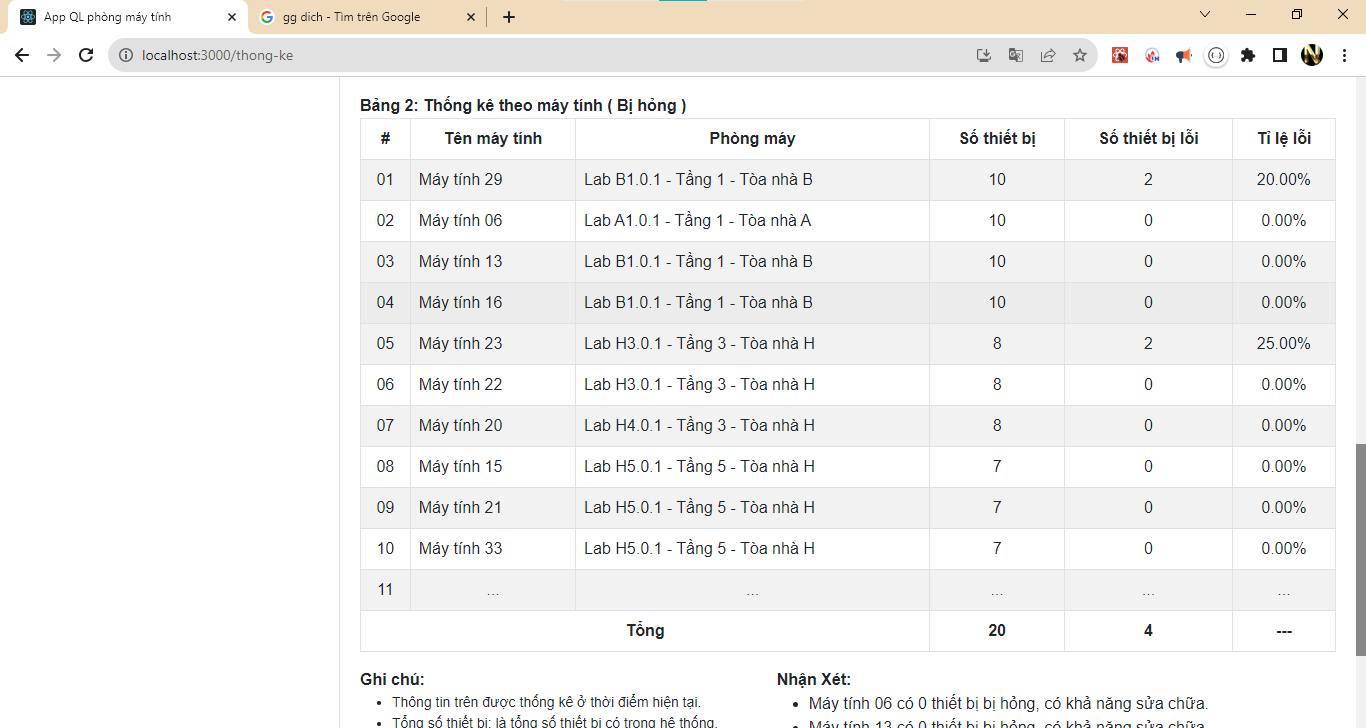
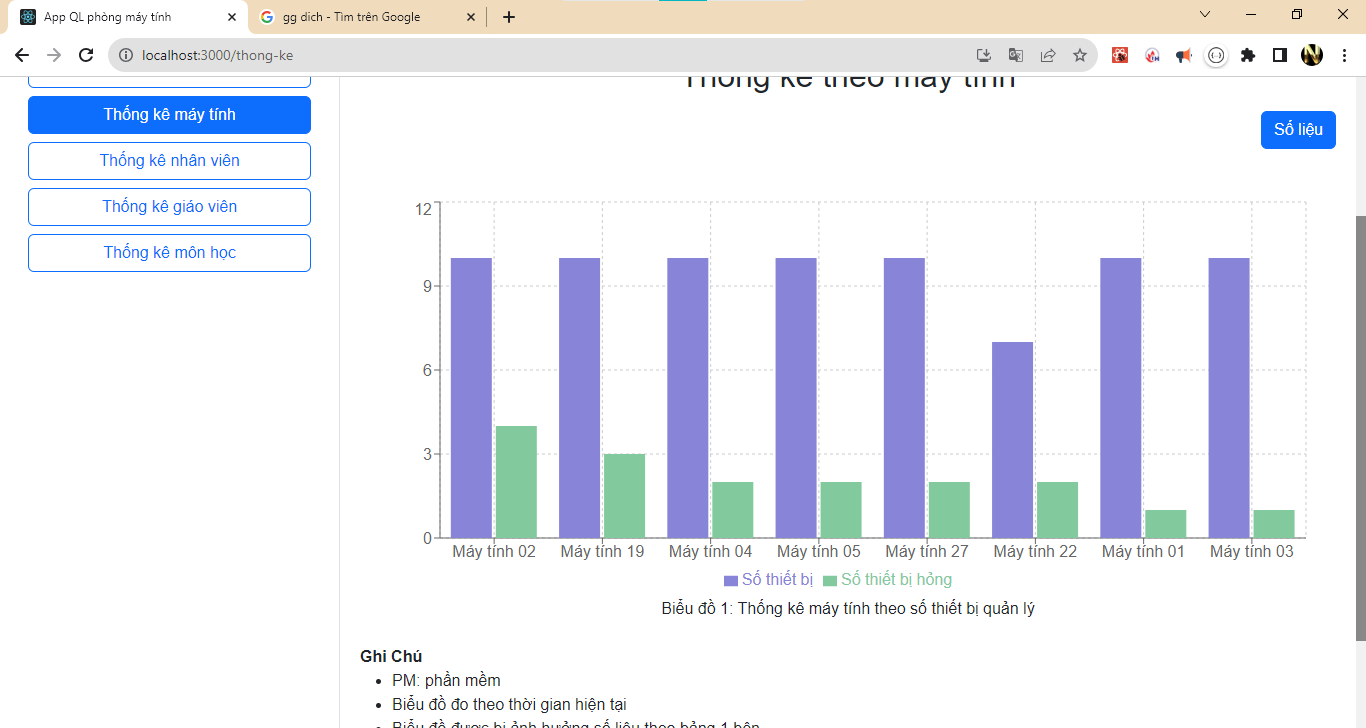
tk may tính: add Graph 1

diff --git a/src/components/layout/ThongKe/ThongKeMayTinh/ComponentGraphMayTinh.jsx b/src/components/layout/ThongKe/ThongKeMayTinh/ComponentGraphMayTinh.jsx
@@ -1,10 +1,94 @@
-import React from 'react'
+import React, { PureComponent } from "react";
+import {
+  BarChart,
+  Bar,
+  Rectangle,
+  XAxis,
+  YAxis,
+  CartesianGrid,
+  Tooltip,
+  Legend,
+  ResponsiveContainer,
+} from "recharts";
+import { useSelector } from "react-redux";
 
 export default function ComponentGraphMayTinh() {
-  return (
-    <div>
-      ComponentGraphMayTinh
-    </div>
-  )
-}
+  //
+  const {
+    arrDataTK_MayTinh,
+    arrDataTK_MayTinhSearch,
+    arrDataTK_MayTinhSearch_err,
+  } = useSelector((state) => state.thongkeMayTinhReducer);
+  // render
+  if (arrDataTK_MayTinh.length === 0) {
+    return <>Đang tìm số liệu.</>;
+  }
 
+  //
+  const renderTK_MayTinh1 = () => {
+    if(arrDataTK_MayTinhSearch.length === 0) {
+      return <>Bảng 1: không có thông tin</>
+    }
+    //
+    let rowItem = 0;
+    let arrGraph = [];
+    arrDataTK_MayTinhSearch.forEach((item) => {
+      rowItem++;
+      if (rowItem >= 9) return;
+      let { moTa, phongMay, soThietBi, soTbi_err } = item;
+      arrGraph.push({ name:moTa, namey:'Số lượng', "Số thiết bị": soThietBi, "Số thiết bị hỏng": soTbi_err });
+    });
+    return (
+      <ResponsiveContainer className="col-md-8 mt-5" height={400}>
+        <BarChart
+          width={500}
+          height={300}
+          data={arrGraph}
+          margin={{
+            top: 5,
+            right: 30,
+            left: 20,
+            bottom: 5,
+          }}
+        >
+          <CartesianGrid strokeDasharray="3 3" />
+          <XAxis dataKey="name" />
+          <YAxis  />
+          <Tooltip />
+          <Legend />
+          <Bar
+            dataKey="Số thiết bị"
+            fill="#8884d8"
+            activeBar={<Rectangle fill="pink" stroke="blue" />}
+          />
+          <Bar
+            dataKey="Số thiết bị hỏng"
+            fill="#82ca9d"
+            activeBar={<Rectangle fill="gold" stroke="purple" />}
+          />
+        </BarChart>
+        <p className="text-center w-100">
+          Biểu đồ 1: Thống kê máy tính theo số thiết bị quản lý
+        </p>
+      </ResponsiveContainer>
+    );
+  }
+
+
+  //
+  return <div className="mb-5">
+    {/*  */}
+    <>{renderTK_MayTinh1()}</>
+    <div className="col-5 mt-5">
+        <strong>Ghi Chú</strong>
+        <ul>
+          <li>PM: phần mềm</li>
+          <li>Biểu đồ đo theo thời gian hiện tại</li>
+          <li>
+            Biểu đồ được bị ảnh hưởng số liệu theo bảng 1 bên số liệu ( thống kê
+            theo máy tính )
+          </li>
+        </ul>
+      </div>
+  </div>;
+}

diff --git a/src/components/layout/ThongKe/ThongKeMayTinh/ComponentTableMayTinh.jsx b/src/components/layout/ThongKe/ThongKeMayTinh/ComponentTableMayTinh.jsx
@@ -15,6 +15,9 @@ export default function ComponentTableMayTinh() {
     arrDataTK_MayTinhSearch,
     arrDataTK_MayTinhSearch_err,
   } = useSelector((state) => state.thongkeMayTinhReducer);
+  if (arrDataTK_MayTinh.length === 0) {
+    return <>Đang tìm số liệu.</>;
+  }
   // render
 
   let sumThieBi_err = 0;
@@ -26,6 +29,11 @@ export default function ComponentTableMayTinh() {
   let arrNhanXet_Tbi_Bang2 = [];
 
   const renderDataTK_MayTinh_bang1 = () => {
+    if (arrDataTK_MayTinhSearch_err.length === 0) {
+      return <>Không có thông tin.</>;
+    }
+
+    //
     let valueRow = 0;
     return arrDataTK_MayTinhSearch?.map((item, index) => {
       valueRow++;
@@ -77,6 +85,11 @@ export default function ComponentTableMayTinh() {
   };
   //
   const renderDataTK_MayTinh_bang2 = () => {
+    if (arrDataTK_MayTinhSearch_err.length === 0) {
+      return <>Không có thông tin.</>;
+    }
+
+    //
     let valueRow = 0;
     return arrDataTK_MayTinhSearch_err?.map((item, index) => {
       valueRow++;
@@ -134,7 +147,7 @@ export default function ComponentTableMayTinh() {
     }
     return arrNhanXet_Tbi_Bang1?.map((item, index) => {
       rowData++;
-      if ((rowData == 8)) {
+      if (rowData == 8) {
         return <li>...</li>;
       } else if (rowData > 8) {
         return <></>;
@@ -152,7 +165,7 @@ export default function ComponentTableMayTinh() {
     }
     return arrNhanXet_Tbi_Bang2?.map((item, index) => {
       rowData++;
-      if ((rowData == 8)) {
+      if (rowData == 8) {
         return <li>...</li>;
       } else if (rowData > 8) {
         return <></>;
@@ -224,7 +237,7 @@ export default function ComponentTableMayTinh() {
             </ul>
           </div>
           <div className="col-7">
-            <strong>Nhận Xét: </strong>
+            <strong>Nhận xét: </strong>
             <ul>{renderNhanXet_Bang1()}</ul>
           </div>
         </div>
@@ -287,7 +300,7 @@ export default function ComponentTableMayTinh() {
             </ul>
           </div>
           <div className="col-7">
-            <strong>Nhận Xét: </strong>
+            <strong>Nhận xét: </strong>
             <ul>{renderNhanXet_Bang2()}</ul>
           </div>
         </div>

diff --git a/src/components/layout/ThongKe/ThongKePhongMay/ComponentGraphPhong.jsx b/src/components/layout/ThongKe/ThongKePhongMay/ComponentGraphPhong.jsx
@@ -29,6 +29,10 @@ export default function ComponentGraphPhong() {
     (state) => state.thongkePhongReducer
   );
   //
+  if (arrTK_DataPhong.length === 0) {
+    return <>Đang tìm số liệu.</>;
+  }
+  //
 
   // render
   const renderTK_Phong_MayTinh = () => {
@@ -90,7 +94,11 @@ export default function ComponentGraphPhong() {
       rowItem++;
       if (rowItem >= 9) return;
       let { tenPhong, soPhanMem, soPM_err } = item;
-      arrGraph.push({ tenPhong, "Số phần mềm": soPhanMem, "Số PM bị lỗi": soPM_err });
+      arrGraph.push({
+        tenPhong,
+        "Số phần mềm": soPhanMem,
+        "Số PM bị lỗi": soPM_err,
+      });
     });
 
     return (
@@ -122,7 +130,7 @@ export default function ComponentGraphPhong() {
             activeBar={<Rectangle fill="gold" stroke="purple" />}
           />
         </BarChart>
-        <p className="text-center w-100"> 
+        <p className="text-center w-100">
           Biểu đồ 2: Thống kê phòng theo số phần mềm quản lý
         </p>
       </ResponsiveContainer>
@@ -135,15 +143,15 @@ export default function ComponentGraphPhong() {
       <>{renderTK_Phong_MayTinh()}</>
       {/*  */}
       <>{renderTK_Phong_PhanMem()}</>
-      
-      
+
       <div className="col-5 mt-5">
         <strong>Ghi Chú</strong>
         <ul>
           <li>PM: phần mềm</li>
           <li>Biểu đồ đo theo thời gian hiện tại</li>
           <li>
-            Biểu đồ được bị ảnh hưởng số liệu theo bảng 1 bên số liệu ( thống kê theo phòng )
+            Biểu đồ được bị ảnh hưởng số liệu theo bảng 1 bên số liệu ( thống kê
+            theo phòng )
           </li>
         </ul>
       </div>
@@ -151,9 +159,4 @@ export default function ComponentGraphPhong() {
   );
 }
 
-//
-const sort_soMayTinh = (a, b) => {
-  let valuea = a.soMayTinh;
-  let valueb = b.soMayTinh;
-  return valueb - valuea;
-};
+

diff --git a/src/components/layout/ThongKe/ThongKePhongMay/ComponentTablePhong.jsx b/src/components/layout/ThongKe/ThongKePhongMay/ComponentTablePhong.jsx
@@ -10,6 +10,11 @@ export default function ComponentTablePhong() {
   const { arrTK_DataPhong, sum_PM, arrTK_DataPhong_Search } = useSelector(
     (state) => state.thongkePhongReducer
   );
+  //
+  if (arrTK_DataPhong.length === 0) {
+    return <>Đang tìm số liệu.</>;
+  }
+  //
   let sumMayTinh = 0;
   let sumMayTinh_err = 0;
   let sumPM_err = 0;
@@ -20,6 +25,11 @@ export default function ComponentTablePhong() {
 
   //render
   const renderDataTK_Phong = () => {
+    if(arrTK_DataPhong_Search.length === 0) {
+      return <>Không có thông tin.</>
+    }
+
+    //
     return arrTK_DataPhong_Search?.map((item, index) => {
       valueRow++;
 
@@ -88,10 +98,11 @@ export default function ComponentTablePhong() {
   };
   //
   const renderNhanXet = () => {
-    let rowData = 0;
     let arrNhanXet = [...arrNhanXet_MT, ...arrNhanXet_PM];
     if (arrNhanXet.length === 0)
-      return <li>Không tìm thấy vấn dề nghiêm trọng.</li>;
+    return <li>Không tìm thấy vấn dề nghiêm trọng.</li>;
+    //
+    let rowData = 0;
     return arrNhanXet?.map((item, index) => {
       rowData++;
       if ((rowData == 8)) {
@@ -180,7 +191,7 @@ export default function ComponentTablePhong() {
             </ul>
           </div>
           <div className="col-7">
-            <strong>Nhận Xét: </strong>
+            <strong>Nhận xét: </strong>
             <ul>{renderNhanXet()}</ul>
           </div>
         </div>

diff --git a/src/components/layout/ThongKe/ThongKeMayTinh/ComponentSortMayTinh.jsx b/src/components/layout/ThongKe/ThongKeMayTinh/ComponentSortMayTinh.jsx
@@ -213,7 +213,7 @@ export default function ComponentSortMayTinh() {
                 Tìm theo phòng máy
               </label>
               <select
-                className="form-select  "
+                className="form-select p-1 "
                 name="searchPhongMay"
                 id="searchPhongMay"
                 onChange={handleChangeSelectPhongMay}
